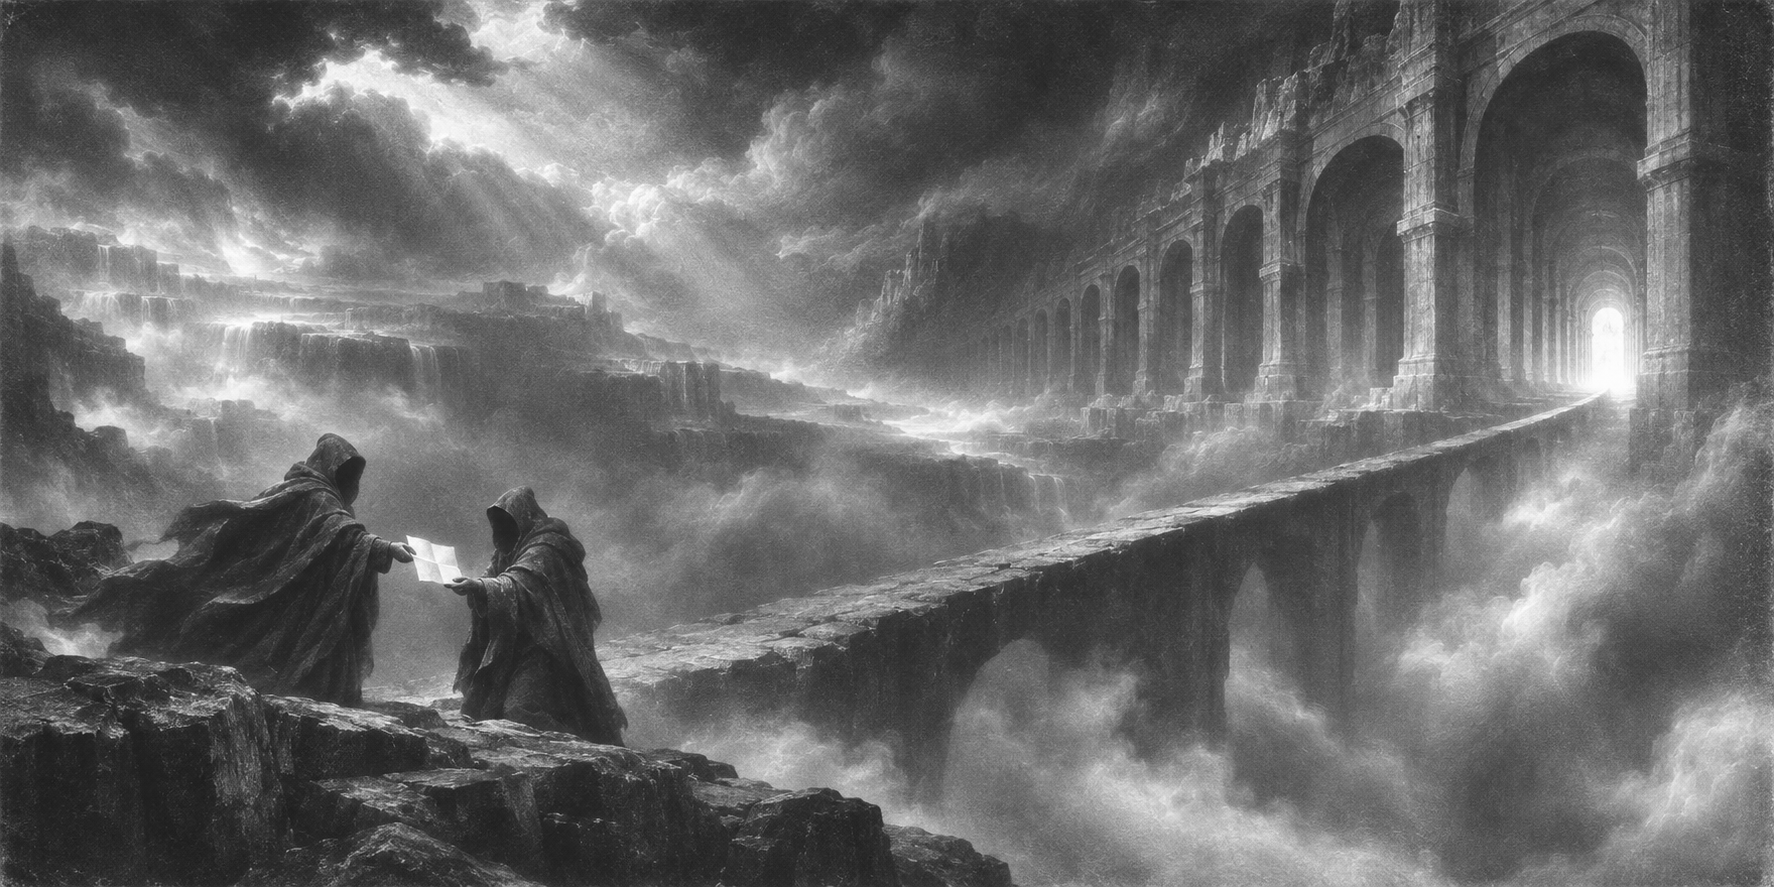
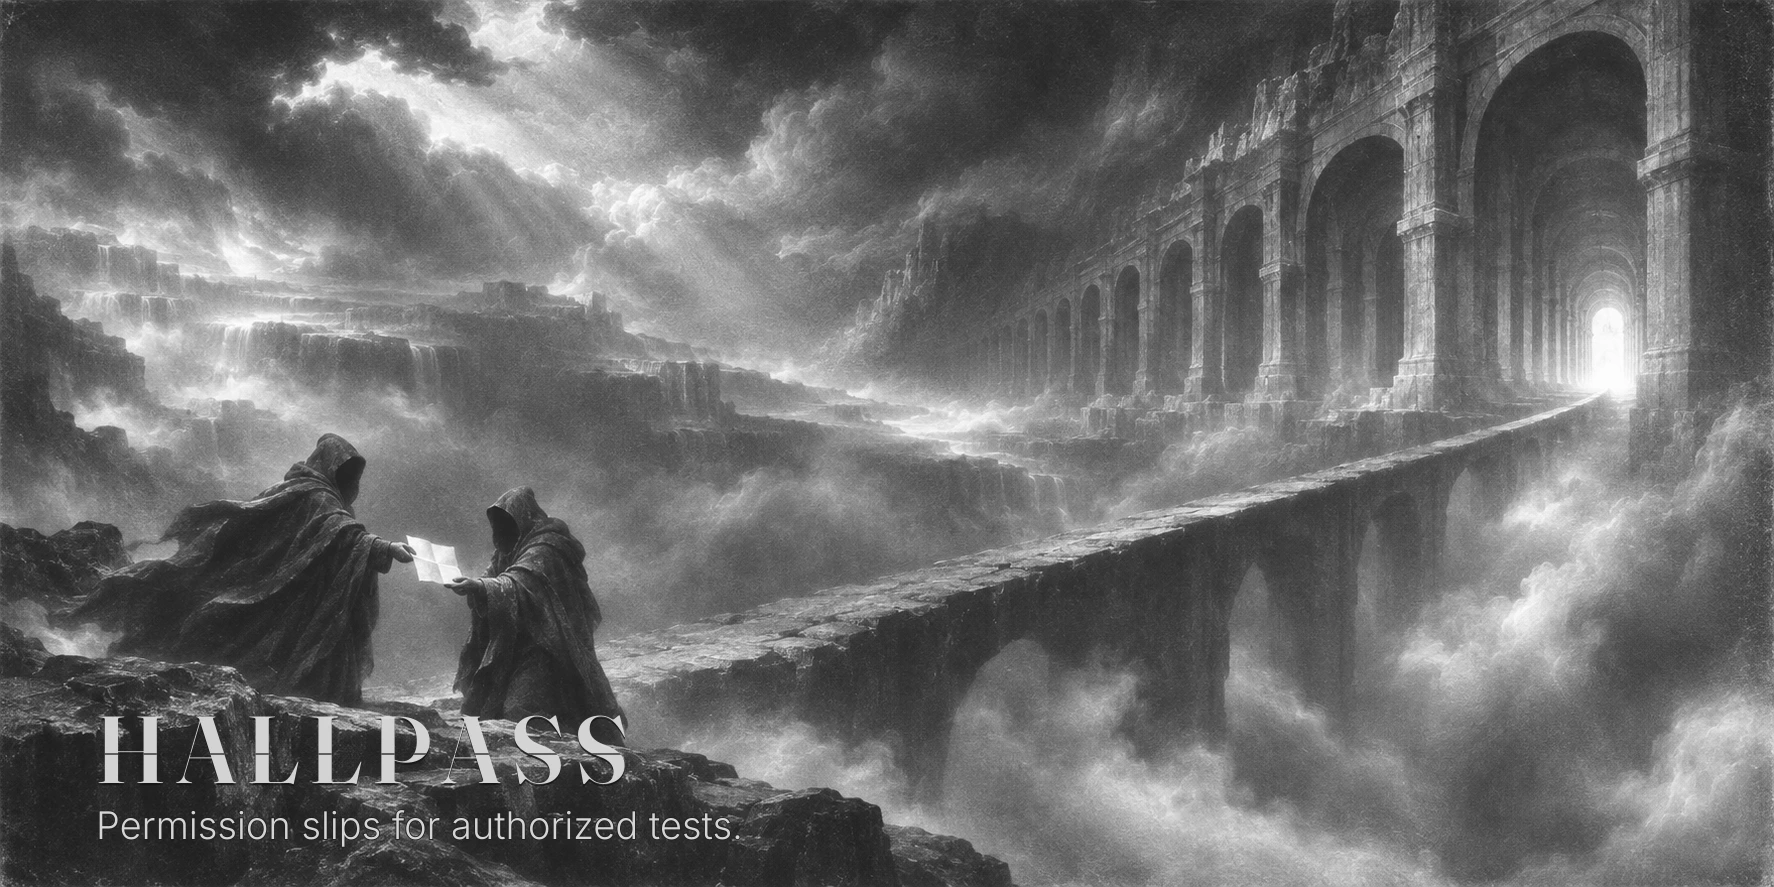
docs: README image

Changed region(s): [[0.031, 0.7914, 0.372, 0.8828], [0.062, 0.9132, 0.403, 0.9436]]

diff --git a/README.md b/README.md
@@ -1,6 +1,6 @@
 # hallpass
 
-![Two faceless, cloaked figures exchange a paper pass beside a stone bridge leading through mist to a lit archway.](docs/hallpass.webp)
+![HALLPASS — Permission slips for authorized tests. Two cloaked figures exchange a paper pass beside a misty stone bridge.](docs/hallpass.webp)
 
 A pass is the written permission slip for an authorized test: who approved
 it, which literal network destinations may be touched, from when until
